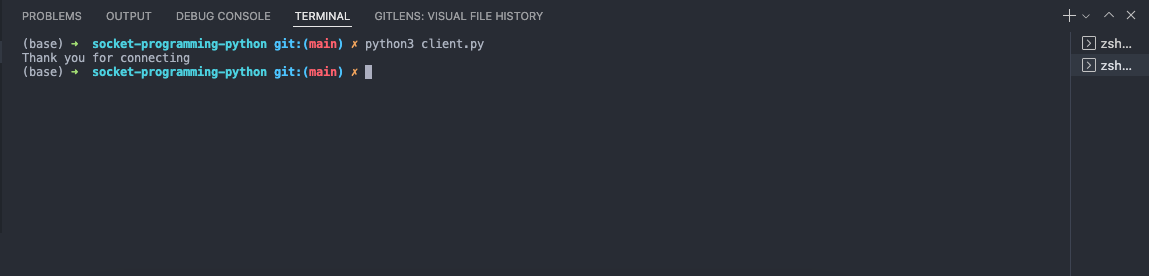
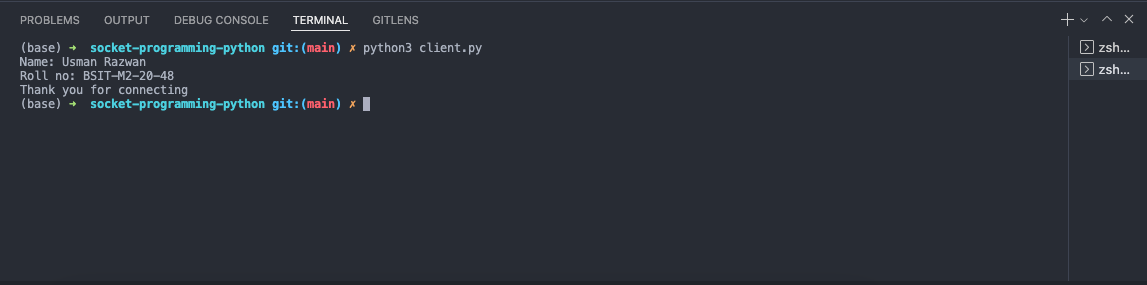
adding name and roll number in code and in screenshots

Changed region(s): [[0.0, 0.1449, 0.4272, 0.4058], [0.0, 0.0, 1.0, 0.1159], [0.9459, 0.1159, 1.0, 0.2609]]

diff --git a/Operating System/Assignments/socket-programming-python/server.py b/Operating System/Assignments/socket-programming-python/server.py
@@ -1,7 +1,8 @@
 # first of all import the socket library
 from calendar import c
 import socket
-
+print("Name: Usman Razwan")
+print("Roll no: BSIT-M2-20-48")
 # next create a socket object
 s = socket.socket()
 print("Socket successfully created")

diff --git a/Operating System/Assignments/socket-programming-python/client.py b/Operating System/Assignments/socket-programming-python/client.py
@@ -1,6 +1,7 @@
 # Import socket module
 import socket
-
+print("Name: Usman Razwan")
+print("Roll no: BSIT-M2-20-48")
 # Create a socket object
 s = socket.socket()
 
